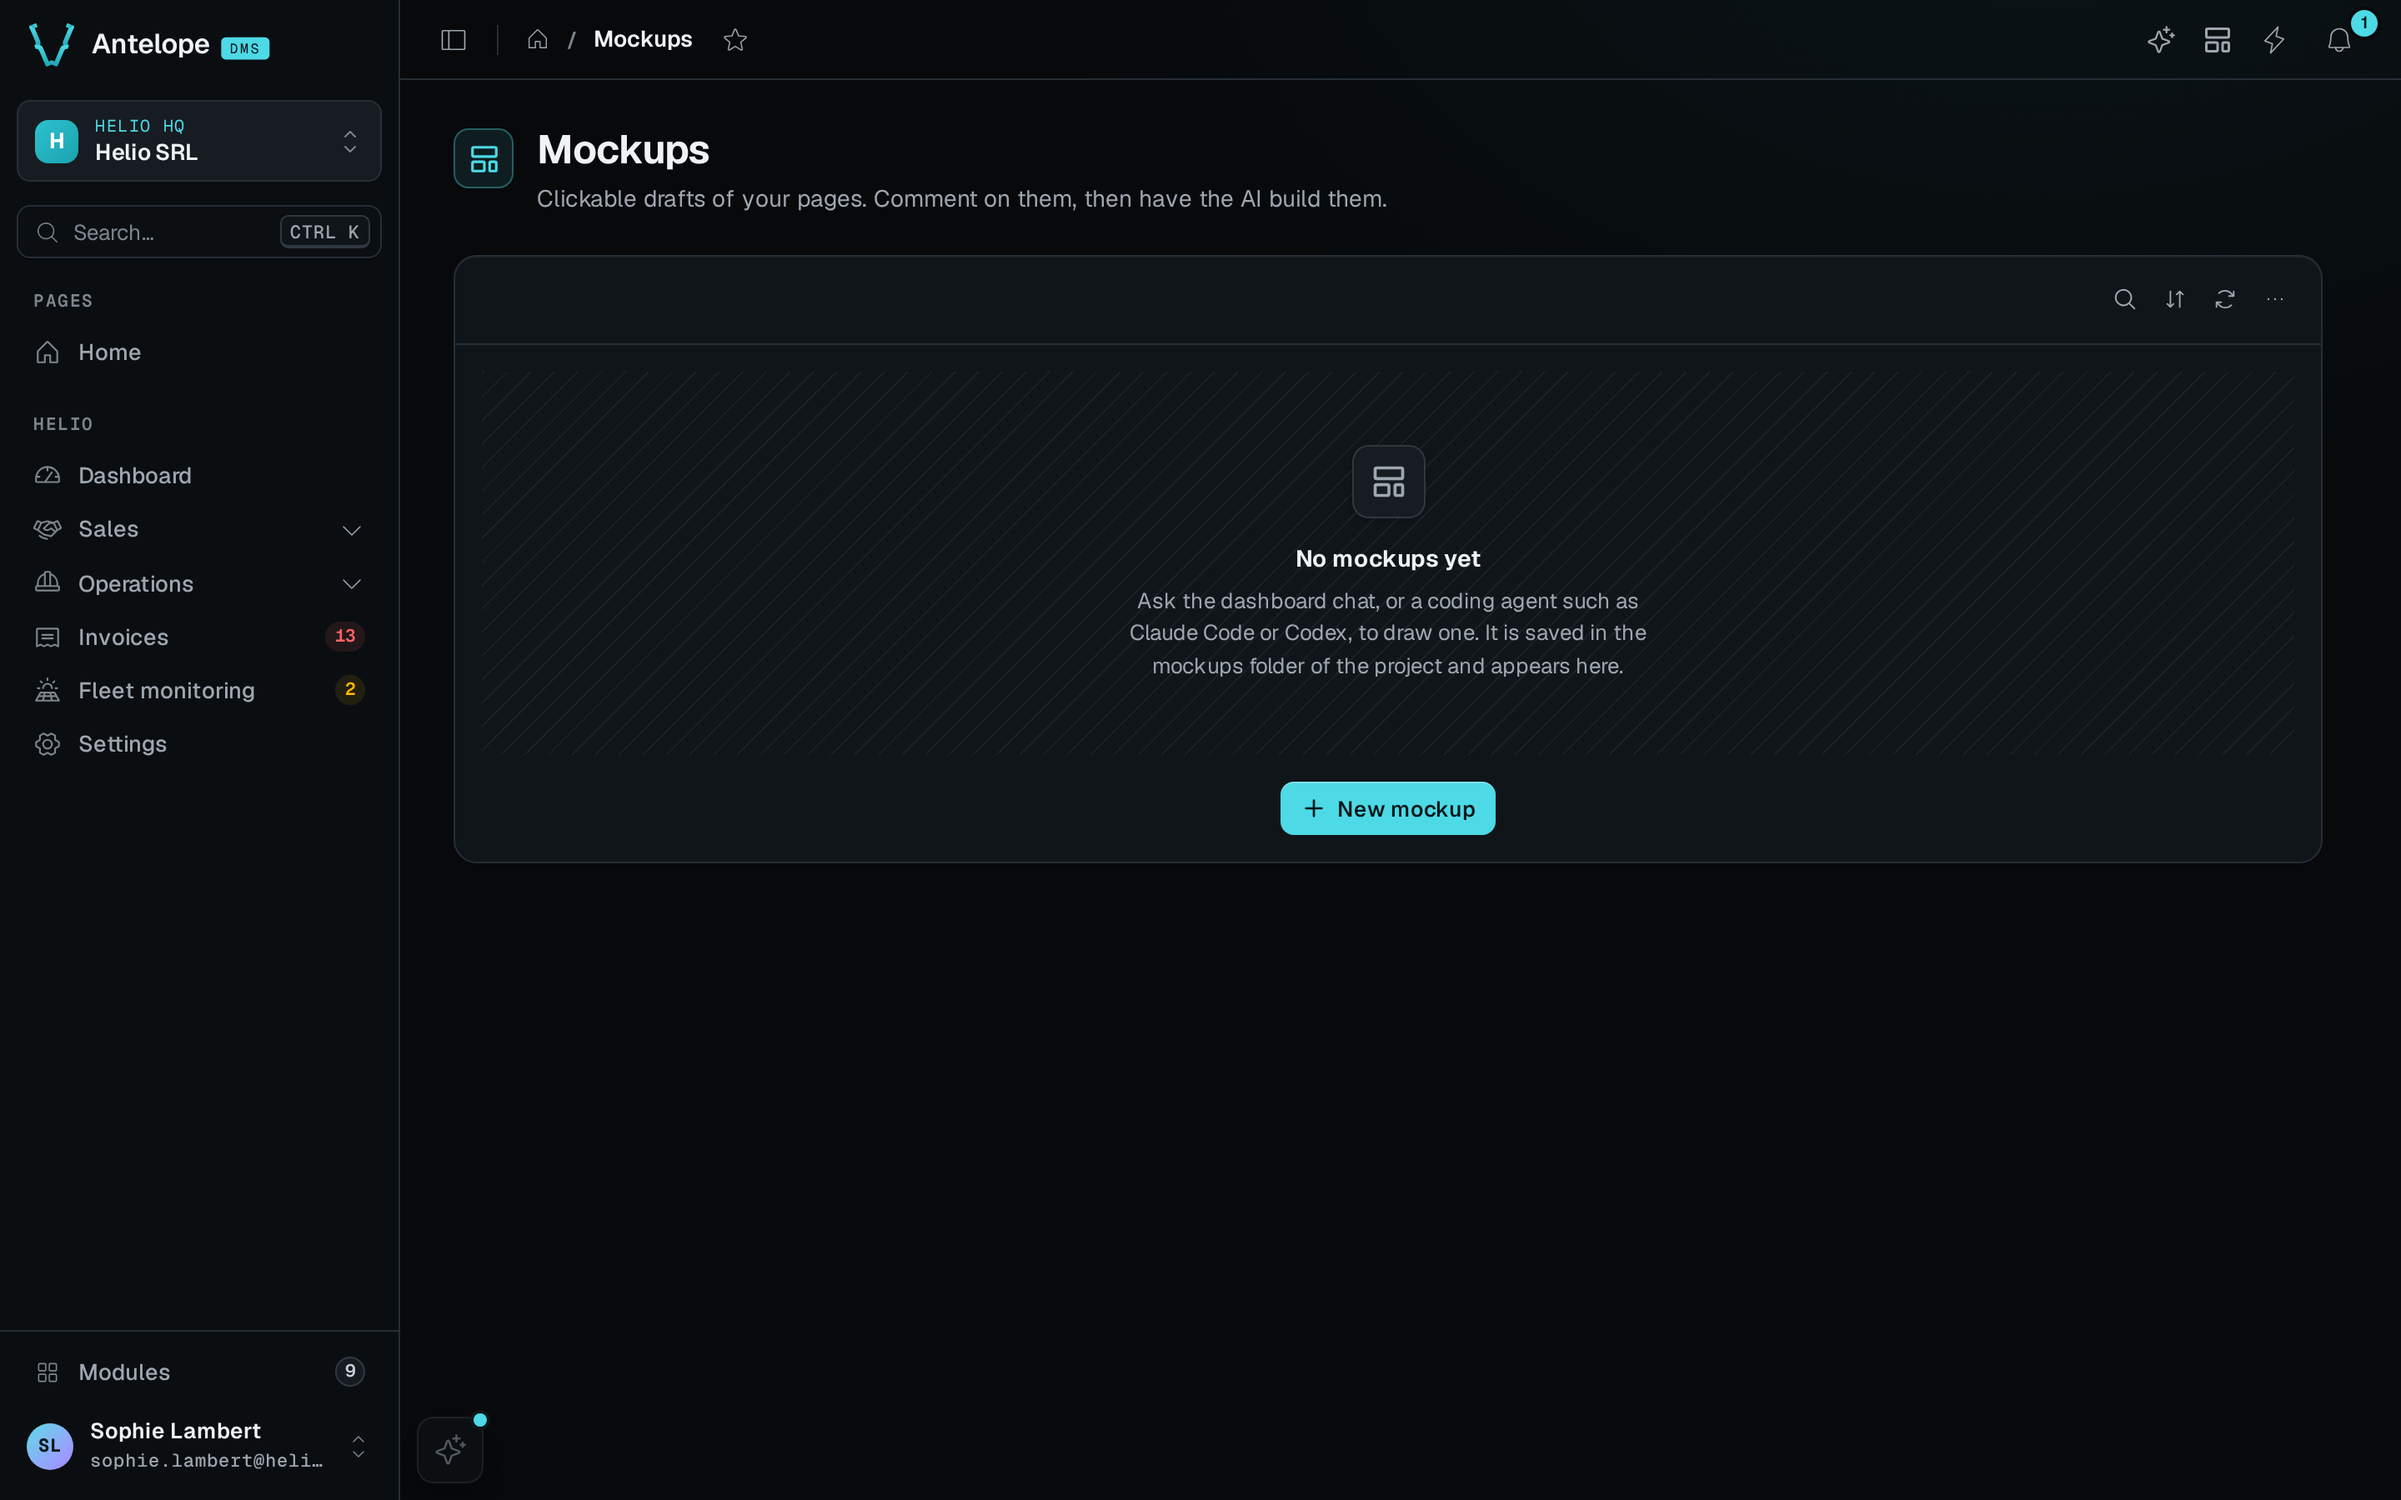
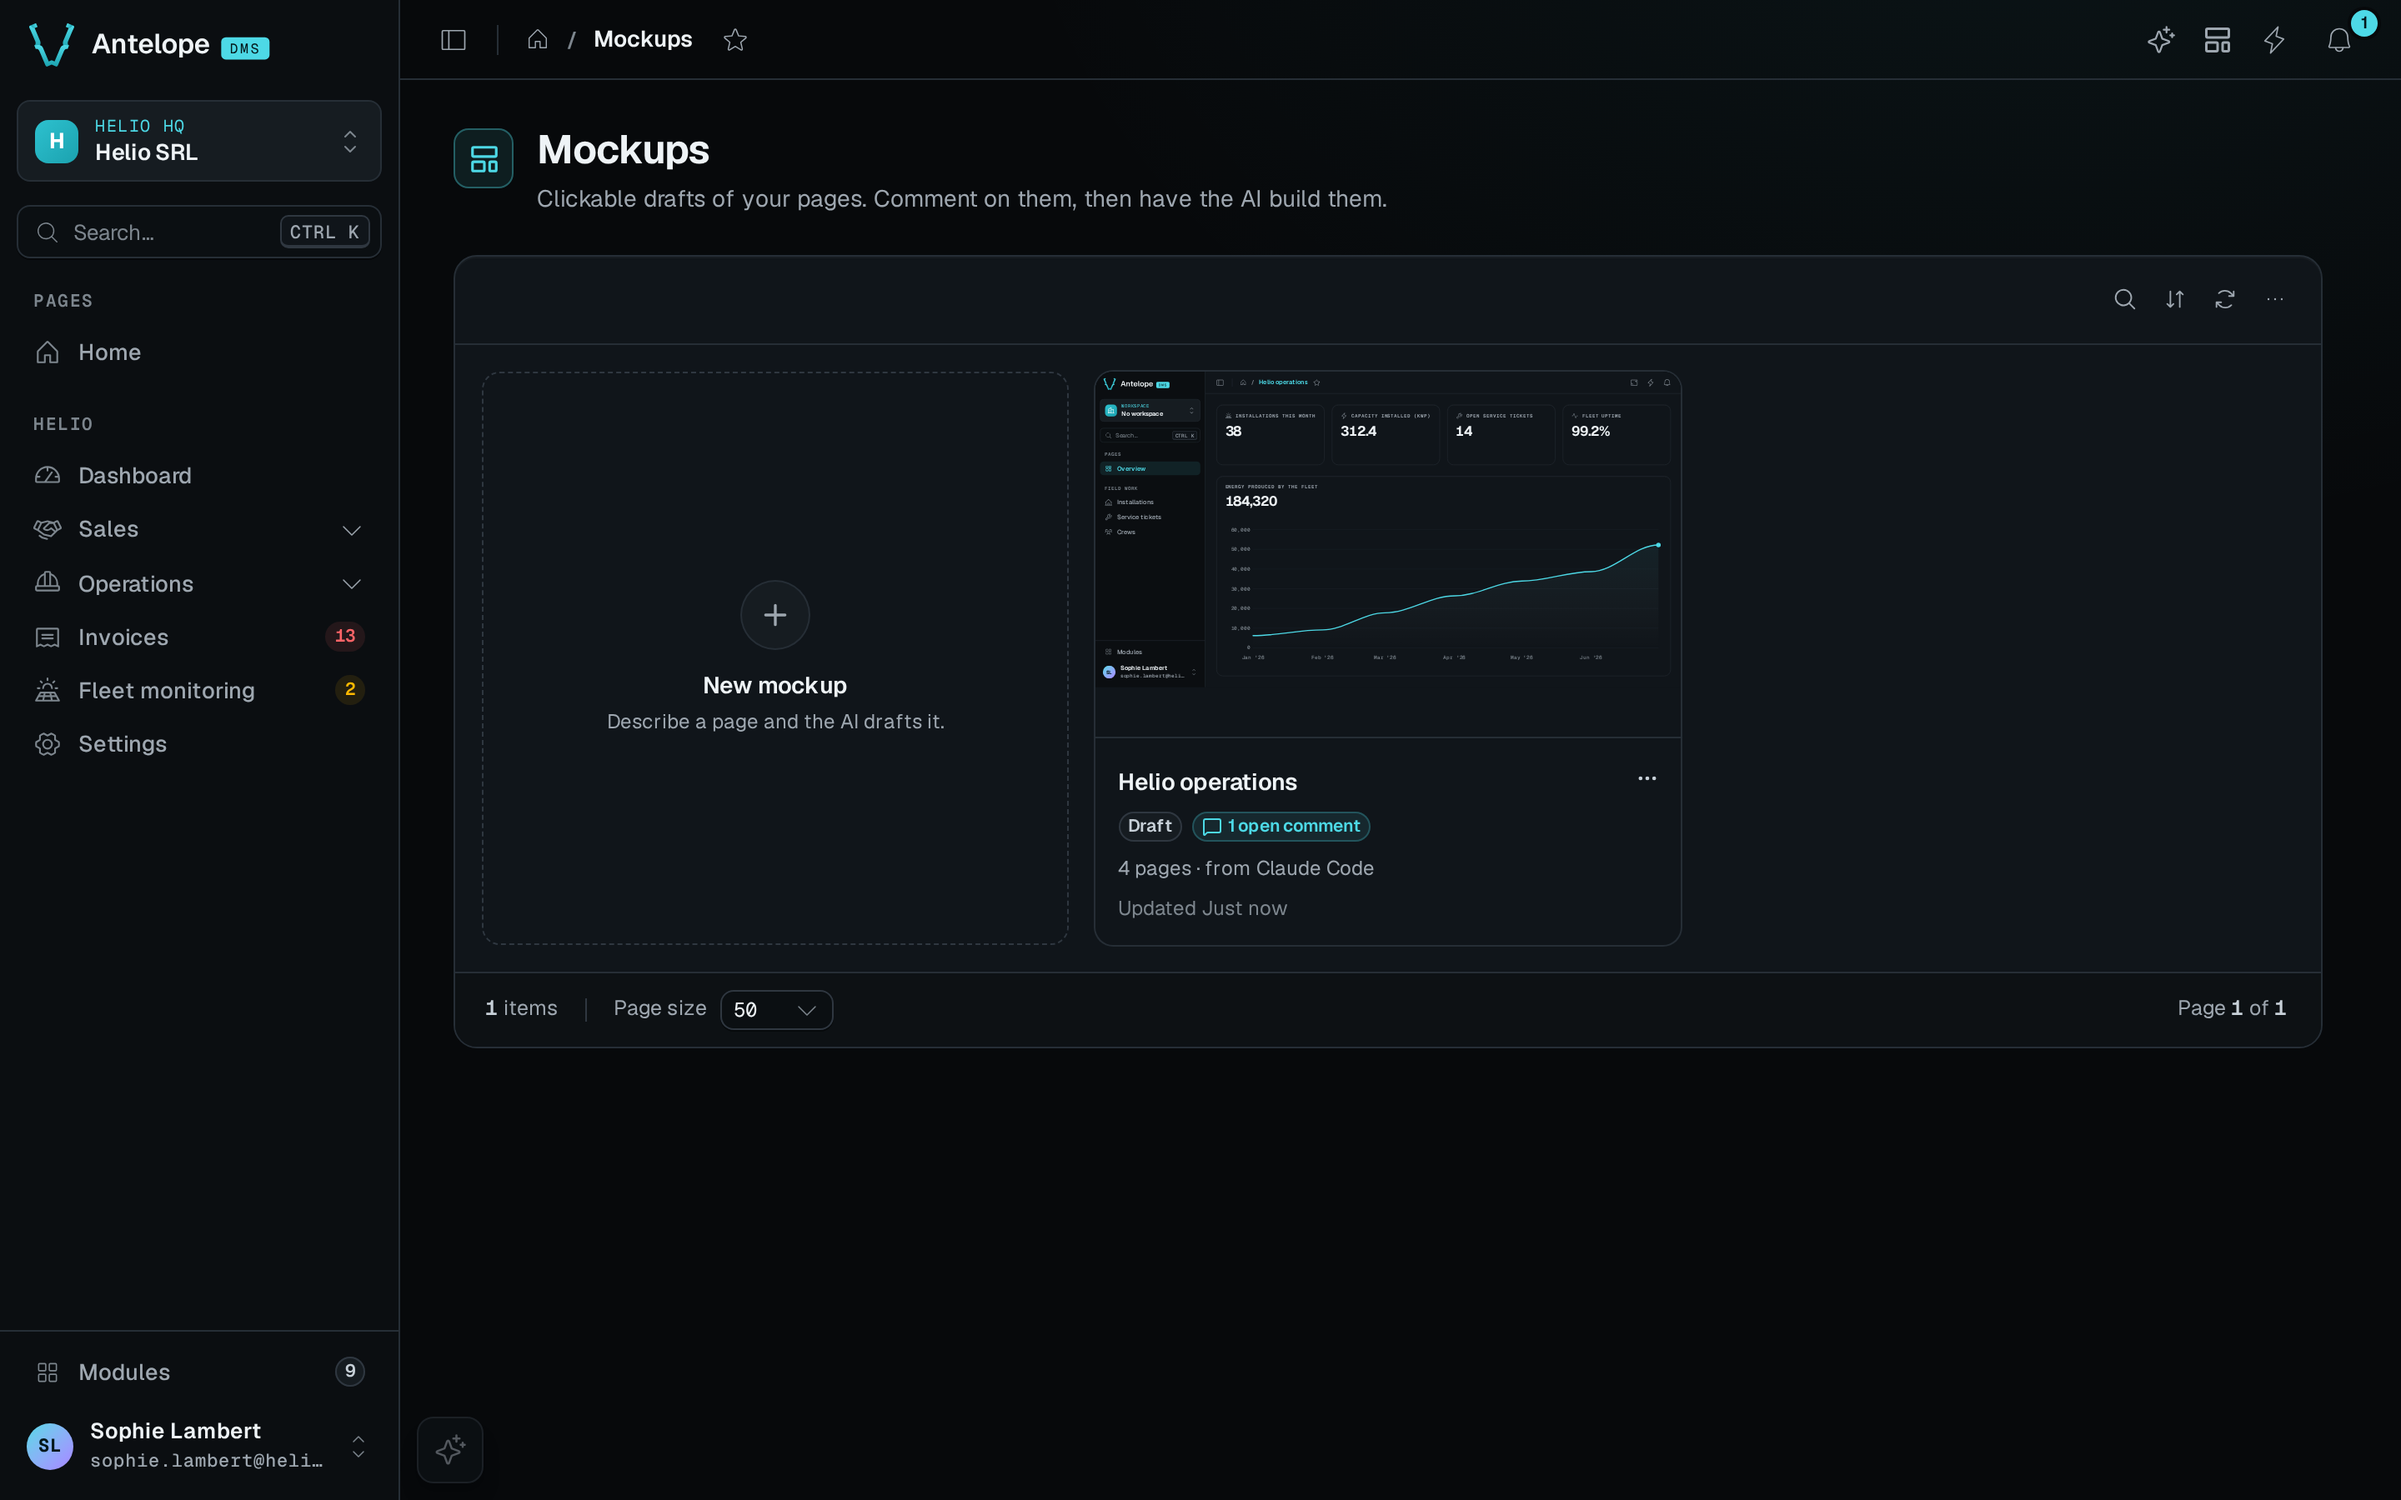
docs(mockups): capture the Overview, a comment pin and the Resolve with AI bar on the Helio sample mockup

diff --git a/docs/captures.ts b/docs/captures.ts
@@ -5,10 +5,18 @@ import {
 
 const DASHBOARD = "/helio/dashboard";
 const POPUP = '[role="dialog"]';
+const MOCKUP = "/mockup?name=helio-ops";
+const OPEN_PIN = '[data-dms-mockup-pin="split-installations"]';
 
 /** The onboarding window opens on every page until the project has content: these steps wait for it, then close it. */
 const CLOSE_ONBOARDING: CaptureStep[] = [
   { action: "wait", selector: 'text="Your assistant is ready"' },
+  { action: "press", key: "Escape" },
+];
+
+/** Closes the onboarding window on whichever view it opens: Continue once the project holds a mockup, else the ready view. */
+const CLOSE_POPUP: CaptureStep[] = [
+  { action: "wait", selector: POPUP },
   { action: "press", key: "Escape" },
 ];
 
@@ -22,7 +30,9 @@ function onboardingSteps(...until: CaptureStep[]): CaptureStep[] {
 
 /**
  * The screenshots of the dms-assistant docs, taken on the Helio demo by `pnpm docs:capture`. The Helio setup
- * runs first and creates the owner every other scene is signed in as.
+ * runs first and creates the owner every other scene is signed in as. The scenes run in order on one demo:
+ * the mockup scenes come first, then `ai-mockups-empty` deletes the demo's mockup, since the onboarding
+ * opens on Continue instead of its paths once the project holds one.
  */
 export default defineScenes([
   {
@@ -55,6 +65,61 @@ export default defineScenes([
       { action: "wait", selector: 'button:has-text("Open the dashboard")' },
       { action: "click", selector: 'button:has-text("Open the dashboard")' },
     ],
+  },
+  {
+    id: "ai-mockups",
+    route: "/mockups",
+    steps: [
+      ...CLOSE_POPUP,
+      { action: "wait", selector: 'text="Helio operations"' },
+    ],
+    output: "docs/images/captures/ai-mockups.webp",
+  },
+  {
+    id: "ai-mockup-overview",
+    route: MOCKUP,
+    steps: [
+      ...CLOSE_POPUP,
+      { action: "wait", selector: "[data-dms-mockup-overview-frame]" },
+    ],
+    output: "docs/images/captures/ai-mockup-overview.webp",
+  },
+  {
+    id: "ai-mockup-comment",
+    route: `${MOCKUP}&page=overview`,
+    steps: [
+      ...CLOSE_POPUP,
+      { action: "click", selector: OPEN_PIN },
+      { action: "wait", selector: "[data-dms-mockup-pin-card]" },
+    ],
+    output: "docs/images/captures/ai-mockup-comment.webp",
+  },
+  {
+    id: "ai-mockup-resolve-bar",
+    route: `${MOCKUP}&page=overview`,
+    steps: [
+      ...CLOSE_POPUP,
+      { action: "wait", selector: "[data-dms-mockup-resolve-bar]" },
+    ],
+    crop: "[data-dms-mockup-resolve-bar]",
+    output: "docs/images/captures/ai-mockup-resolve-bar.webp",
+  },
+  {
+    id: "ai-mockups-empty",
+    route: "/mockups",
+    steps: [
+      ...CLOSE_POPUP,
+      {
+        action: "click",
+        selector: '[data-dms-mockup-card="helio-ops"] [data-dms-mockup-menu]',
+      },
+      { action: "click", selector: 'text="Delete"' },
+      { action: "wait", selector: '[data-confirm-action="confirm"]' },
+      { action: "press", key: "Tab" },
+      { action: "press", key: "Enter" },
+      { action: "wait", selector: "div > button[data-dms-mockup-new]" },
+    ],
+    output: "docs/images/captures/ai-mockups-empty.webp",
   },
   {
     id: "ai-onboarding-ready",
@@ -94,12 +159,6 @@ export default defineScenes([
     ),
     crop: POPUP,
     output: "docs/images/captures/ai-onboarding-scratch.webp",
-  },
-  {
-    id: "ai-mockups",
-    route: "/mockups",
-    steps: CLOSE_ONBOARDING,
-    output: "docs/images/captures/ai-mockups.webp",
   },
   {
     id: "ai-changes",

diff --git a/docs/4.mockups.md b/docs/4.mockups.md
@@ -6,7 +6,7 @@ mode: how-to
 
 A mockup is a draft of one or more dashboard pages that you review before any code is written. The assistant writes it to `mockups/<name>/spec.json` in your project. The dashboard draws it with the real DMS blocks and sample data, so the mockup shows only what the DMS can build.
 
-![The mockup fills up while the AI writes it. A comment asks for a Repeat customers KPI, and Resolve with AI adds the card](./images/mockup.gif)
+![The mockup fills up while the AI writes it. A comment asks for a Repeat customers KPI, and Resolve with AI adds the card](./images/mockup.gif "illustration")
 
 This page shows how to use mockups from the assistant. The DMS docs hold the reference: [Mockups](/docs/ai-and-claude-code/mockups) for the spec file, [Mockup viewer](/docs/ai-and-claude-code/mockup-viewer) for the viewer and the Mockups page, and [Mockup comments and overview](/docs/ai-and-claude-code/mockup-review) for comments.
 
@@ -18,7 +18,13 @@ Start a mockup in one of these ways:
 - In the chat, ask for one, such as "Draft a mockup of an order desk with orders, customers and a revenue dashboard".
 - On the **Mockups** page, click **New mockup**. The chat opens with "Draft a mockup of " in the composer. Finish the sentence and send it.
 
+![The Mockups page of a project with no mockup yet, with its New mockup button](./images/captures/ai-mockups-empty.webp)
+
 The assistant asks what it needs, then writes the spec. The viewer opens at `/mockup?name=<name>` and shows **The AI is writing the mockup…** until the first page arrives. Pages then appear as the assistant writes them. If you are on another page when the mockup is created, a toast offers **Open**.
+
+The viewer opens on the Overview, which lays out every page of the mockup on one canvas.
+
+![The Overview of the Helio operations mockup: the Overview page with one open comment, then the Installations, Service tickets and Crews pages under Field work](./images/captures/ai-mockup-overview.webp)
 
 ## Comment on the mockup
 
@@ -26,9 +32,13 @@ The assistant asks what it needs, then writes the spec. The viewer opens at `/mo
 2. Click the block you want changed. A pin drops there.
 3. Type what should change, then click **Comment**.
 
+![A comment pinned on the Installations this month card, its card open with Resolve, Close and Save](./images/captures/ai-mockup-comment.webp)
+
 Add as many comments as you need. A bar at the bottom of the viewer counts the open comments.
 
 ## Resolve the comments with AI
+
+![The bar at the bottom of the viewer: 1 open comment, and the Resolve with AI button](./images/captures/ai-mockup-resolve-bar.webp)
 
 Click **Resolve with AI** in the bar. The chat opens on a new conversation and the assistant applies each open comment to the spec, then resolves it. It ends with what it changed and the comments it left open, each with its question. While it works, the button reads **Resolving… ↗**, and a click on it opens that conversation.
 
@@ -48,7 +58,7 @@ The conversation ends with a link to each page it built, and names any page stil
 
 The **Mockups** page, at `/mockups`, lists every mockup of the project as a card. Open it from its icon in the dashboard header. Like the viewer, it exists only in development and only for the owner.
 
-![The Mockups page of the Helio demo, with no mockup yet and the New mockup button](./images/captures/ai-mockups.webp)
+![The Mockups page of the Helio demo: the New mockup card, then the Helio operations card, a draft from Claude Code with 1 open comment](./images/captures/ai-mockups.webp)
 
 Each card shows the mockup's stage:
 
@@ -65,6 +75,6 @@ A card also shows the open comments, where the mockup came from (the chat, Claud
 
 With the [`antelopejs` plugin](/docs/ai-and-claude-code/install), your own Claude Code or Codex session gets the same `dms-mockup` and `dms-mockup-build` skills and the `dms` mockup tools. The mockup it writes opens in the same viewer, and its card reads **from Claude Code** or **from Codex**.
 
-![Claude Code in a terminal mocks up a support desk, and the mockup opens in the dashboard](./images/harness.gif)
+![Claude Code in a terminal mocks up a support desk, and the mockup opens in the dashboard](./images/harness.gif "illustration")
 
 When the assistant module is not installed, no assistant takes the request of **Resolve with AI** or **Build it**. The viewer shows the request under **Ask your AI** instead, for you to copy into your own agent.

diff --git a/docs/1.introduction.md b/docs/1.introduction.md
@@ -6,7 +6,7 @@ mode: explanation
 
 `@antelopejs/dms-assistant` adds an AI assistant to the AntelopeJS DMS dashboard while you develop. You describe the back office you need, or connect a database you already run. The assistant draws a mockup of the pages, you comment on it, and it builds the real pages in your project. After that, you open the chat on any page and ask for a change. Every turn that changes the project becomes a change set that you can review and undo.
 
-![The onboarding window finds a Claude login, connects a PostgreSQL database, and proposes the screens to build](./images/onboarding.gif)
+![The onboarding window finds a Claude login, connects a PostgreSQL database, and proposes the screens to build](./images/onboarding.gif "illustration")
 
 ## It runs on your own Claude or Codex plan
 

diff --git a/docs/3.onboarding.md b/docs/3.onboarding.md
@@ -6,7 +6,7 @@ mode: how-to
 
 The first time an owner opens the dashboard in development, the assistant opens its onboarding window. It first connects the assistant to an AI login, then asks where you start from.
 
-![The onboarding window finds a Claude login, connects a PostgreSQL database, and proposes the screens to build](./images/onboarding.gif)
+![The onboarding window finds a Claude login, connects a PostgreSQL database, and proposes the screens to build](./images/onboarding.gif "illustration")
 
 ## Connect Claude or Codex
 

diff --git a/docs/2.installation.md b/docs/2.installation.md
@@ -1,6 +1,6 @@
 ---
 title: Installation
-description: Add the assistant to an AntelopeJS DMS project, give it the dms MCP tools, and open it in the dashboard.
+description: Add the assistant to an AntelopeJS DMS project, give it the DMS builder tools, and open it in the dashboard.
 mode: how-to
 ---
 
